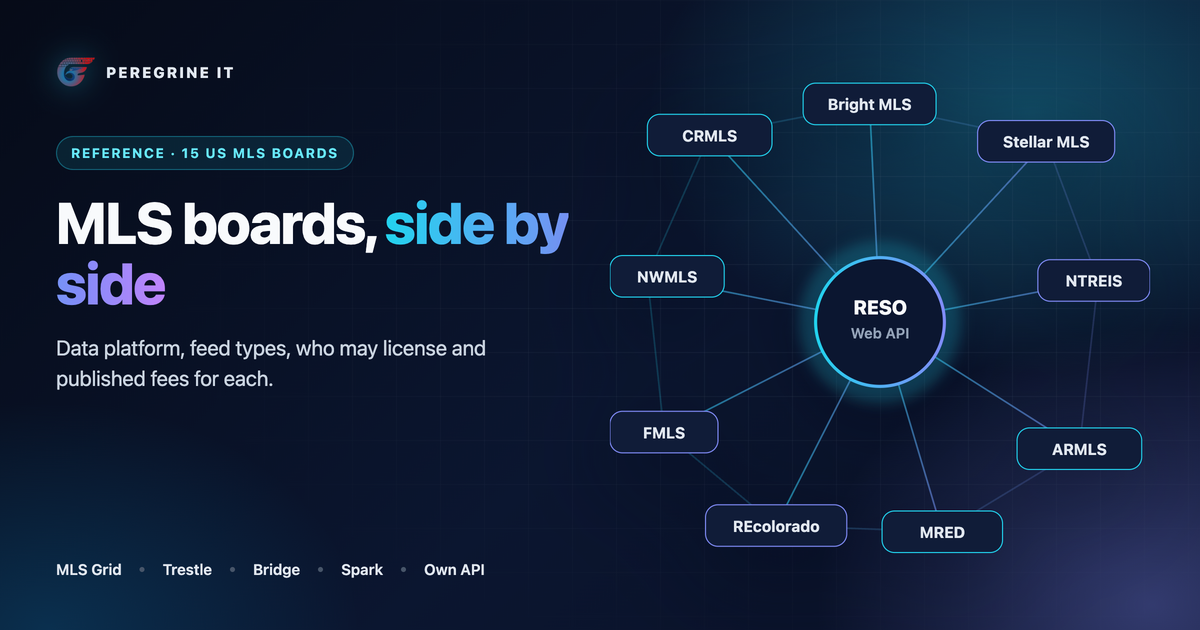
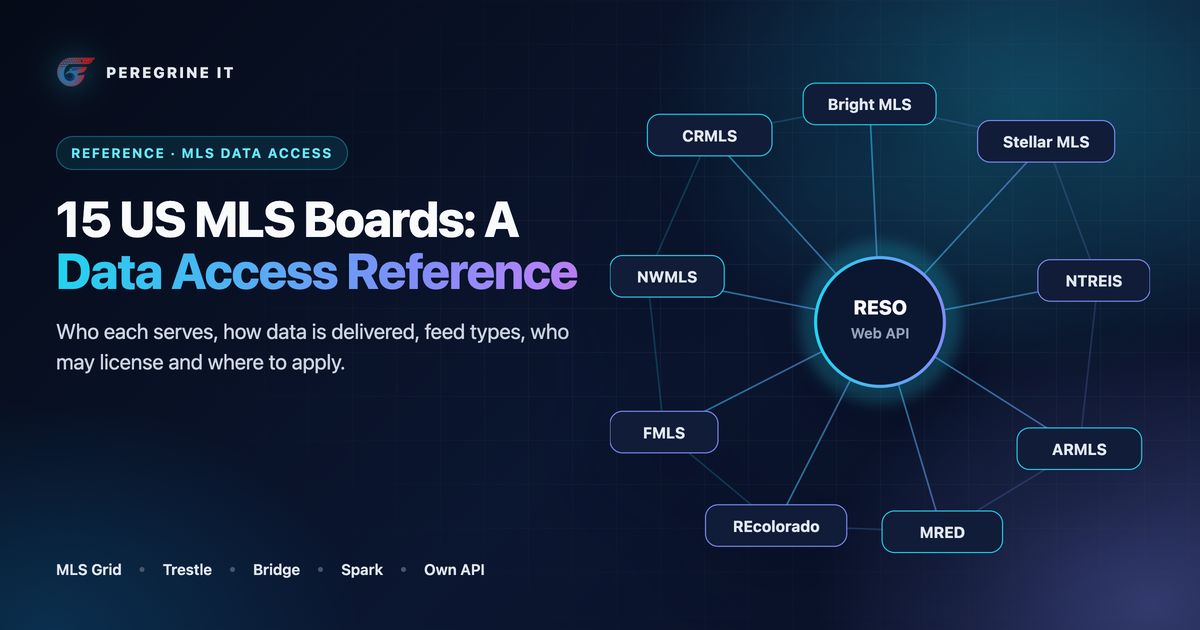
content: MLS boards guide reframed as a reference: cover, alt text and llms.txt entry follow the new title

Changed region(s): [[0.0308, 0.3016, 0.4933, 0.4825], [0.0308, 0.5127, 0.4933, 0.6333], [0.1542, 0.2111, 0.3083, 0.2714]]

diff --git a/design/blog-heroes/mls-boards-compared.html b/design/blog-heroes/mls-boards-compared.html
@@ -1,5 +1,5 @@
 <!doctype html><html lang="en"><head><meta charset="utf-8"><meta name="viewport" content="width=1200">
-<title>Reference · 15 US MLS boards</title><style>
+<title>Reference · MLS data access</title><style>
 *{box-sizing:border-box;margin:0;padding:0}
 html,body{width:1200px;height:630px;overflow:hidden}
 body{font-family:Inter,'SF Pro Display',system-ui,-apple-system,'Segoe UI',Roboto,Helvetica,Arial,sans-serif;color:#f8fafc;
@@ -28,9 +28,9 @@ h1 em{font-style:normal;background:linear-gradient(90deg,#22d3ee,#818cf8 70%,#c0
  box-shadow:0 30px 80px rgba(2,6,23,.65),inset 0 1px 0 rgba(255,255,255,.07);backdrop-filter:blur(6px)}
 .glow{box-shadow:0 0 0 1px rgba(34,211,238,.45),0 24px 70px rgba(34,211,238,.28),inset 0 1px 0 rgba(255,255,255,.1)}
 .muted{color:#94a3b8}.cy{color:#67e8f9}
-.net{position:absolute;right:-6px;top:10px;width:540px;height:520px;filter:drop-shadow(0 20px 50px rgba(2,6,23,.7))}</style></head><body><div class="bg"></div><div class="grid"></div>
-<div class="wrap"><div class="left"><div class="brand"><img src="../../public/favicons/favicon-192x192.png" alt="">PEREGRINE IT</div><div class="pill">Reference · 15 US MLS boards</div>
-<h1>MLS boards, <em>side by side</em></h1><p class="sub">Data platform, feed types, who may license and published fees for each.</p><div class="foot"><b>MLS Grid</b><span class='dot'></span><b>Trestle</b><span class='dot'></span><b>Bridge</b><span class='dot'></span><b>Spark</b><span class='dot'></span><b>Own API</b></div></div><div class="right"><svg class="net" viewBox="0 0 520 500"><defs><linearGradient id="g" x1="0" x2="1"><stop offset="0" stop-color="#22d3ee"/><stop offset="1" stop-color="#818cf8"/></linearGradient>
+h1{font-size:50px}.left{width:540px}.net{position:absolute;right:-6px;top:10px;width:540px;height:520px;filter:drop-shadow(0 20px 50px rgba(2,6,23,.7))}</style></head><body><div class="bg"></div><div class="grid"></div>
+<div class="wrap"><div class="left"><div class="brand"><img src="../../public/favicons/favicon-192x192.png" alt="">PEREGRINE IT</div><div class="pill">Reference · MLS data access</div>
+<h1>15 US MLS Boards: A <em>Data Access Reference</em></h1><p class="sub">Who each serves, how data is delivered, feed types, who may license and where to apply.</p><div class="foot"><b>MLS Grid</b><span class='dot'></span><b>Trestle</b><span class='dot'></span><b>Bridge</b><span class='dot'></span><b>Spark</b><span class='dot'></span><b>Own API</b></div></div><div class="right"><svg class="net" viewBox="0 0 520 500"><defs><linearGradient id="g" x1="0" x2="1"><stop offset="0" stop-color="#22d3ee"/><stop offset="1" stop-color="#818cf8"/></linearGradient>
 <filter id="f"><feGaussianBlur stdDeviation="6"/></filter></defs>
 <g stroke="url(#g)" stroke-width="1.6" opacity=".55" fill="none">
 <path d="M260 250 L96 70"/><path d="M260 250 L250 40"/><path d="M260 250 L420 76"/><path d="M260 250 L470 210"/><path d="M260 250 L452 372"/><path d="M260 250 L320 452"/><path d="M260 250 L160 446"/><path d="M260 250 L52 356"/><path d="M260 250 L36 206"/>

diff --git a/src/data/guides.ts b/src/data/guides.ts
@@ -286,7 +286,7 @@ export const guides: Guide[] = [
   },
   {
     slug: 'mls-boards-compared',
-    hero: 'Illustration: nine MLS names connected to a RESO Web API hub.',
+    hero: 'Illustration: nine of the fifteen MLS names arranged around a RESO Web API hub.',
     related: ['how-to-get-mls-data-access', 'mls-data-pipeline-architecture'],
     cta: {
       heading: 'Adding a New MLS Market?',

diff --git a/design/blog-heroes/build.py b/design/blog-heroes/build.py
@@ -69,7 +69,7 @@ features = page("Guide · Requirements checklist", "IDX website <em>features</em
 .it u{width:54px;height:54px;border-radius:9px;background:linear-gradient(135deg,#1e3a5f,#312e81);display:block}.it p{display:flex;flex-direction:column;font-size:16px}.it s{text-decoration:none;white-space:nowrap;font-size:12px;color:#94a3b8;margin-top:3px}
 .chk{position:absolute;font-size:16px;font-weight:700;padding:12px 18px;border-radius:14px;color:#a5f3fc}.k1{left:-10px;top:448px}.k2{left:96px;top:506px}.k3{right:0;top:448px}""")
 
-boards = page("Reference · 15 US MLS boards", "MLS boards, <em>side by side</em>", "Data platform, feed types, who may license and published fees for each.",
+boards = page("Reference · MLS data access", "15 US MLS Boards: A <em>Data Access Reference</em>", "Who each serves, how data is delivered, feed types, who may license and where to apply.",
  "<b>MLS Grid</b><span class='dot'></span><b>Trestle</b><span class='dot'></span><b>Bridge</b><span class='dot'></span><b>Spark</b><span class='dot'></span><b>Own API</b>",
  """<svg class="net" viewBox="0 0 520 500"><defs><linearGradient id="g" x1="0" x2="1"><stop offset="0" stop-color="#22d3ee"/><stop offset="1" stop-color="#818cf8"/></linearGradient>
 <filter id="f"><feGaussianBlur stdDeviation="6"/></filter></defs>
@@ -88,7 +88,7 @@ boards = page("Reference · 15 US MLS boards", "MLS boards, <em>side by side</em
 <g><rect x="92" y="426" width="136" height="40" rx="12" fill="#101c38" stroke="#818cf8"/><text x="160" y="452">REcolorado</text></g>
 <g><rect x="0" y="336" width="104" height="40" rx="12" fill="#101c38" stroke="#818cf8"/><text x="52" y="362">FMLS</text></g>
 <g><rect x="0" y="186" width="110" height="40" rx="12" fill="#101c38" stroke="#22d3ee"/><text x="55" y="212">NWMLS</text></g></g></svg>""",
- ".net{position:absolute;right:-6px;top:10px;width:540px;height:520px;filter:drop-shadow(0 20px 50px rgba(2,6,23,.7))}")
+ "h1{font-size:50px}.left{width:540px}.net{position:absolute;right:-6px;top:10px;width:540px;height:520px;filter:drop-shadow(0 20px 50px rgba(2,6,23,.7))}")
 
 stack = page("Decision guide · Architecture", "Choosing a <em>tech stack</em> for a real estate platform", "Database, search, cache, backend and frontend: what listing data asks of each.",
  "<b>7 layers in the guide</b><span class='dot'></span>From each technology's own documentation",
